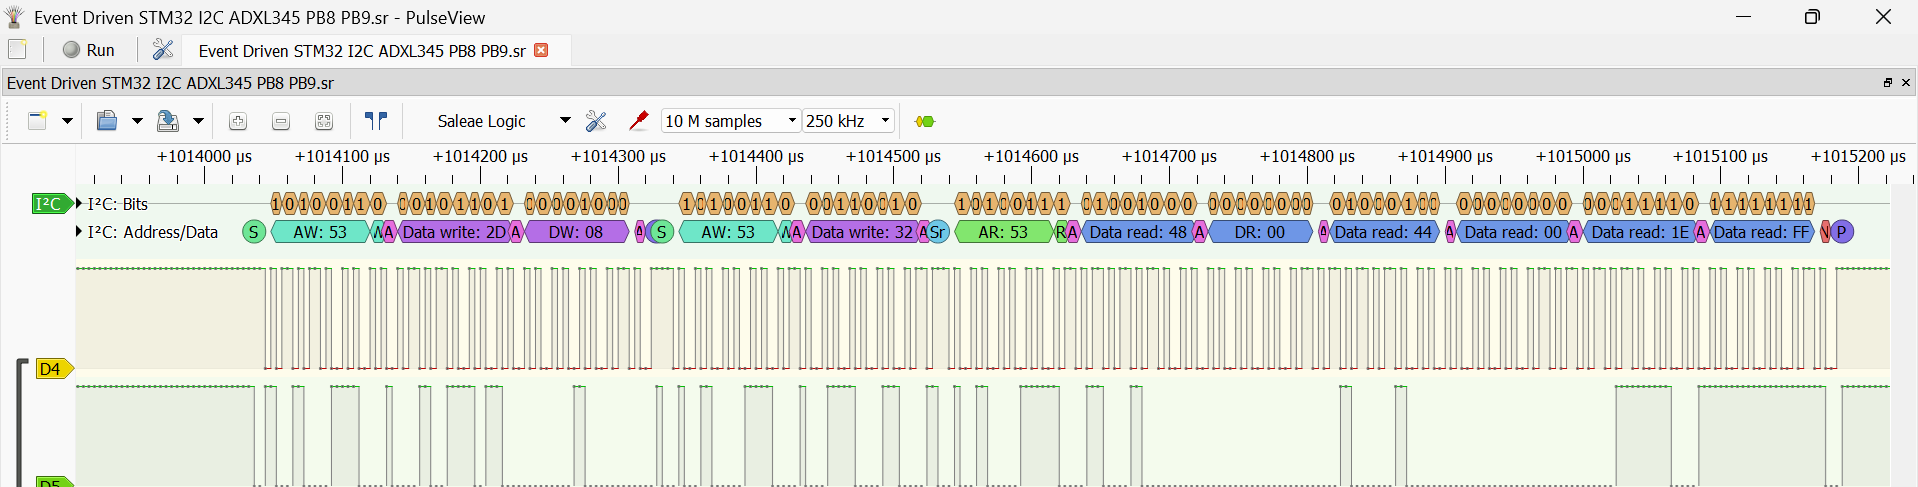
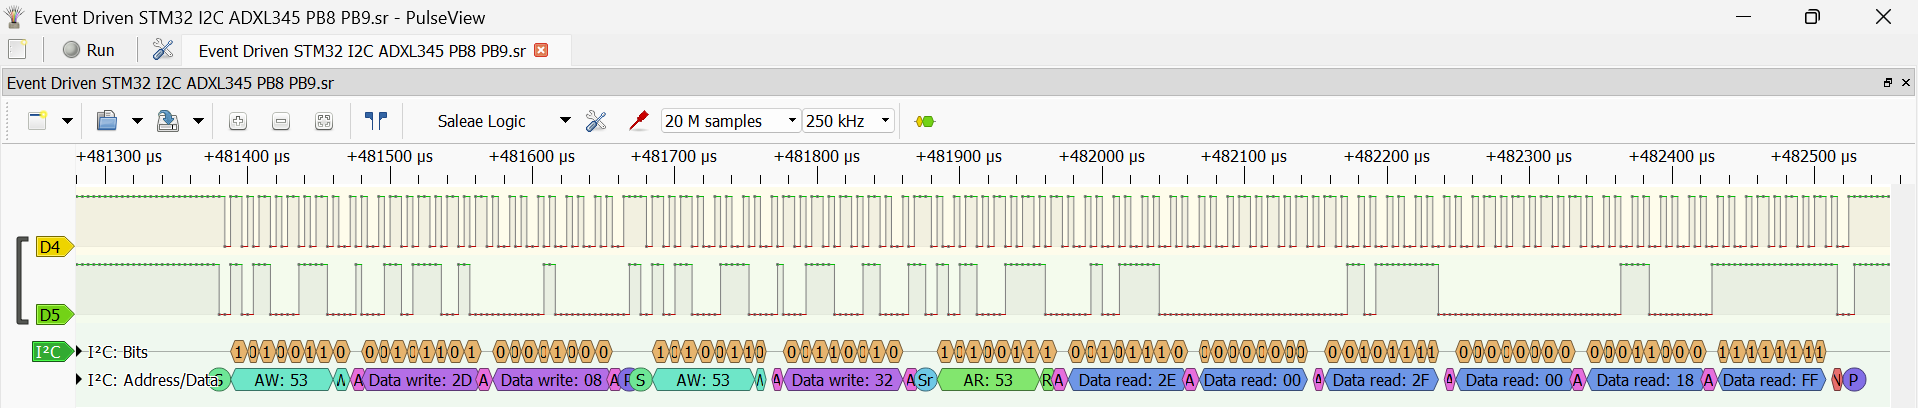
Implement I2C peripheral SWRST and bus recovery in error ISR

diff --git a/Core/Src/adxl.c b/Core/Src/adxl.c
@@ -25,7 +25,6 @@ void I2C1_EV_IRQHandler(void){
 	// read SR1 register to capture snapshot of the hardware
 	uint32_t sr1 = I2C1->SR1;
 
-	// todo: implement error handling
 	switch (currentState) {
 		case STATE_START_SENT:
 			if (sr1 & (1U << 0)){
@@ -136,6 +135,24 @@ void I2C1_EV_IRQHandler(void){
 	}
 }
 
+void I2C1_ER_IRQHandler(void){
+	// Release the I2C lines before performing software reset
+	I2C1 -> CR1 |= (1U << 9);
+
+	// Software reset
+	I2C1 -> CR1 |= (1U << 15);
+	I2C1 -> CR1 &= ~(1U << 15);
+
+	// Initialize I2C
+	I2C_init();
+
+	// Re-enable ITEVTEN and ITBUFEN
+	I2C1->CR2 |= (1U << 9) | (1U << 10);
+
+	count = 0;
+	currentState = STATE_IDLE;
+}
+
 void TimerStart(){
 	// Set to 500 miliseconds
 	SysTick->LOAD = 16000 * 500 - 1; // cycles per MS = 16000
@@ -143,8 +160,11 @@ void TimerStart(){
 	// Reset the clock value
 	SysTick-> VAL = 0;
 
+	// Dummy read to clear previous flags
+	(void)SysTick->CTRL;
+
 	// Enable and set clock source to processor clock
-	SysTick -> CTRL |= (1U) | (1U << 2);
+	SysTick -> CTRL = (1U) | (1U << 2);
 }
 
 uint8_t I2C_init(void){
@@ -187,6 +207,7 @@ uint8_t I2C_init(void){
 
 	return 0;
 }
+
 
 void ADXL345_StartRead(){
 	// The hardware enters Controller (Master) Mode

diff --git a/Core/Src/main.c b/Core/Src/main.c
@@ -99,9 +99,7 @@ int main(void)
   // Generate interrupts
   I2C1->CR2 |= (1U << 9 | 1U << 10);
 
-  if (currentState == STATE_IDLE){
-	ADXL345_StartRead();
-  }
+
 
 
   /* USER CODE END SysInit */
@@ -115,7 +113,20 @@ int main(void)
   /* USER CODE BEGIN WHILE */
   while (1)
   {
-	if (currentState == STATE_COMPLETE){
+
+	if (currentState == STATE_IDLE){
+	  	ADXL345_StartRead();
+
+	  	// set time limit of 500 ms for a single complete read process
+	  	TimerStart();
+  	}
+	else if (currentState != STATE_IDLE && currentState != STATE_COMPLETE && currentState != STATE_DELAY ){
+		if (SysTick -> CTRL & (1U << 16)){
+			// Execute reset if time limit is passed
+			I2C1_ER_IRQHandler();
+		}
+	}
+	else if (currentState == STATE_COMPLETE){
 		TimerStart();
 
 		currentState = STATE_DELAY;
@@ -123,6 +134,7 @@ int main(void)
 	else if (currentState == STATE_DELAY && (SysTick -> CTRL & (1U << 16))){
 		ADXL345_StartRead();
 	}
+
     /* USER CODE END WHILE */
     /* USER CODE BEGIN 3 */
 
